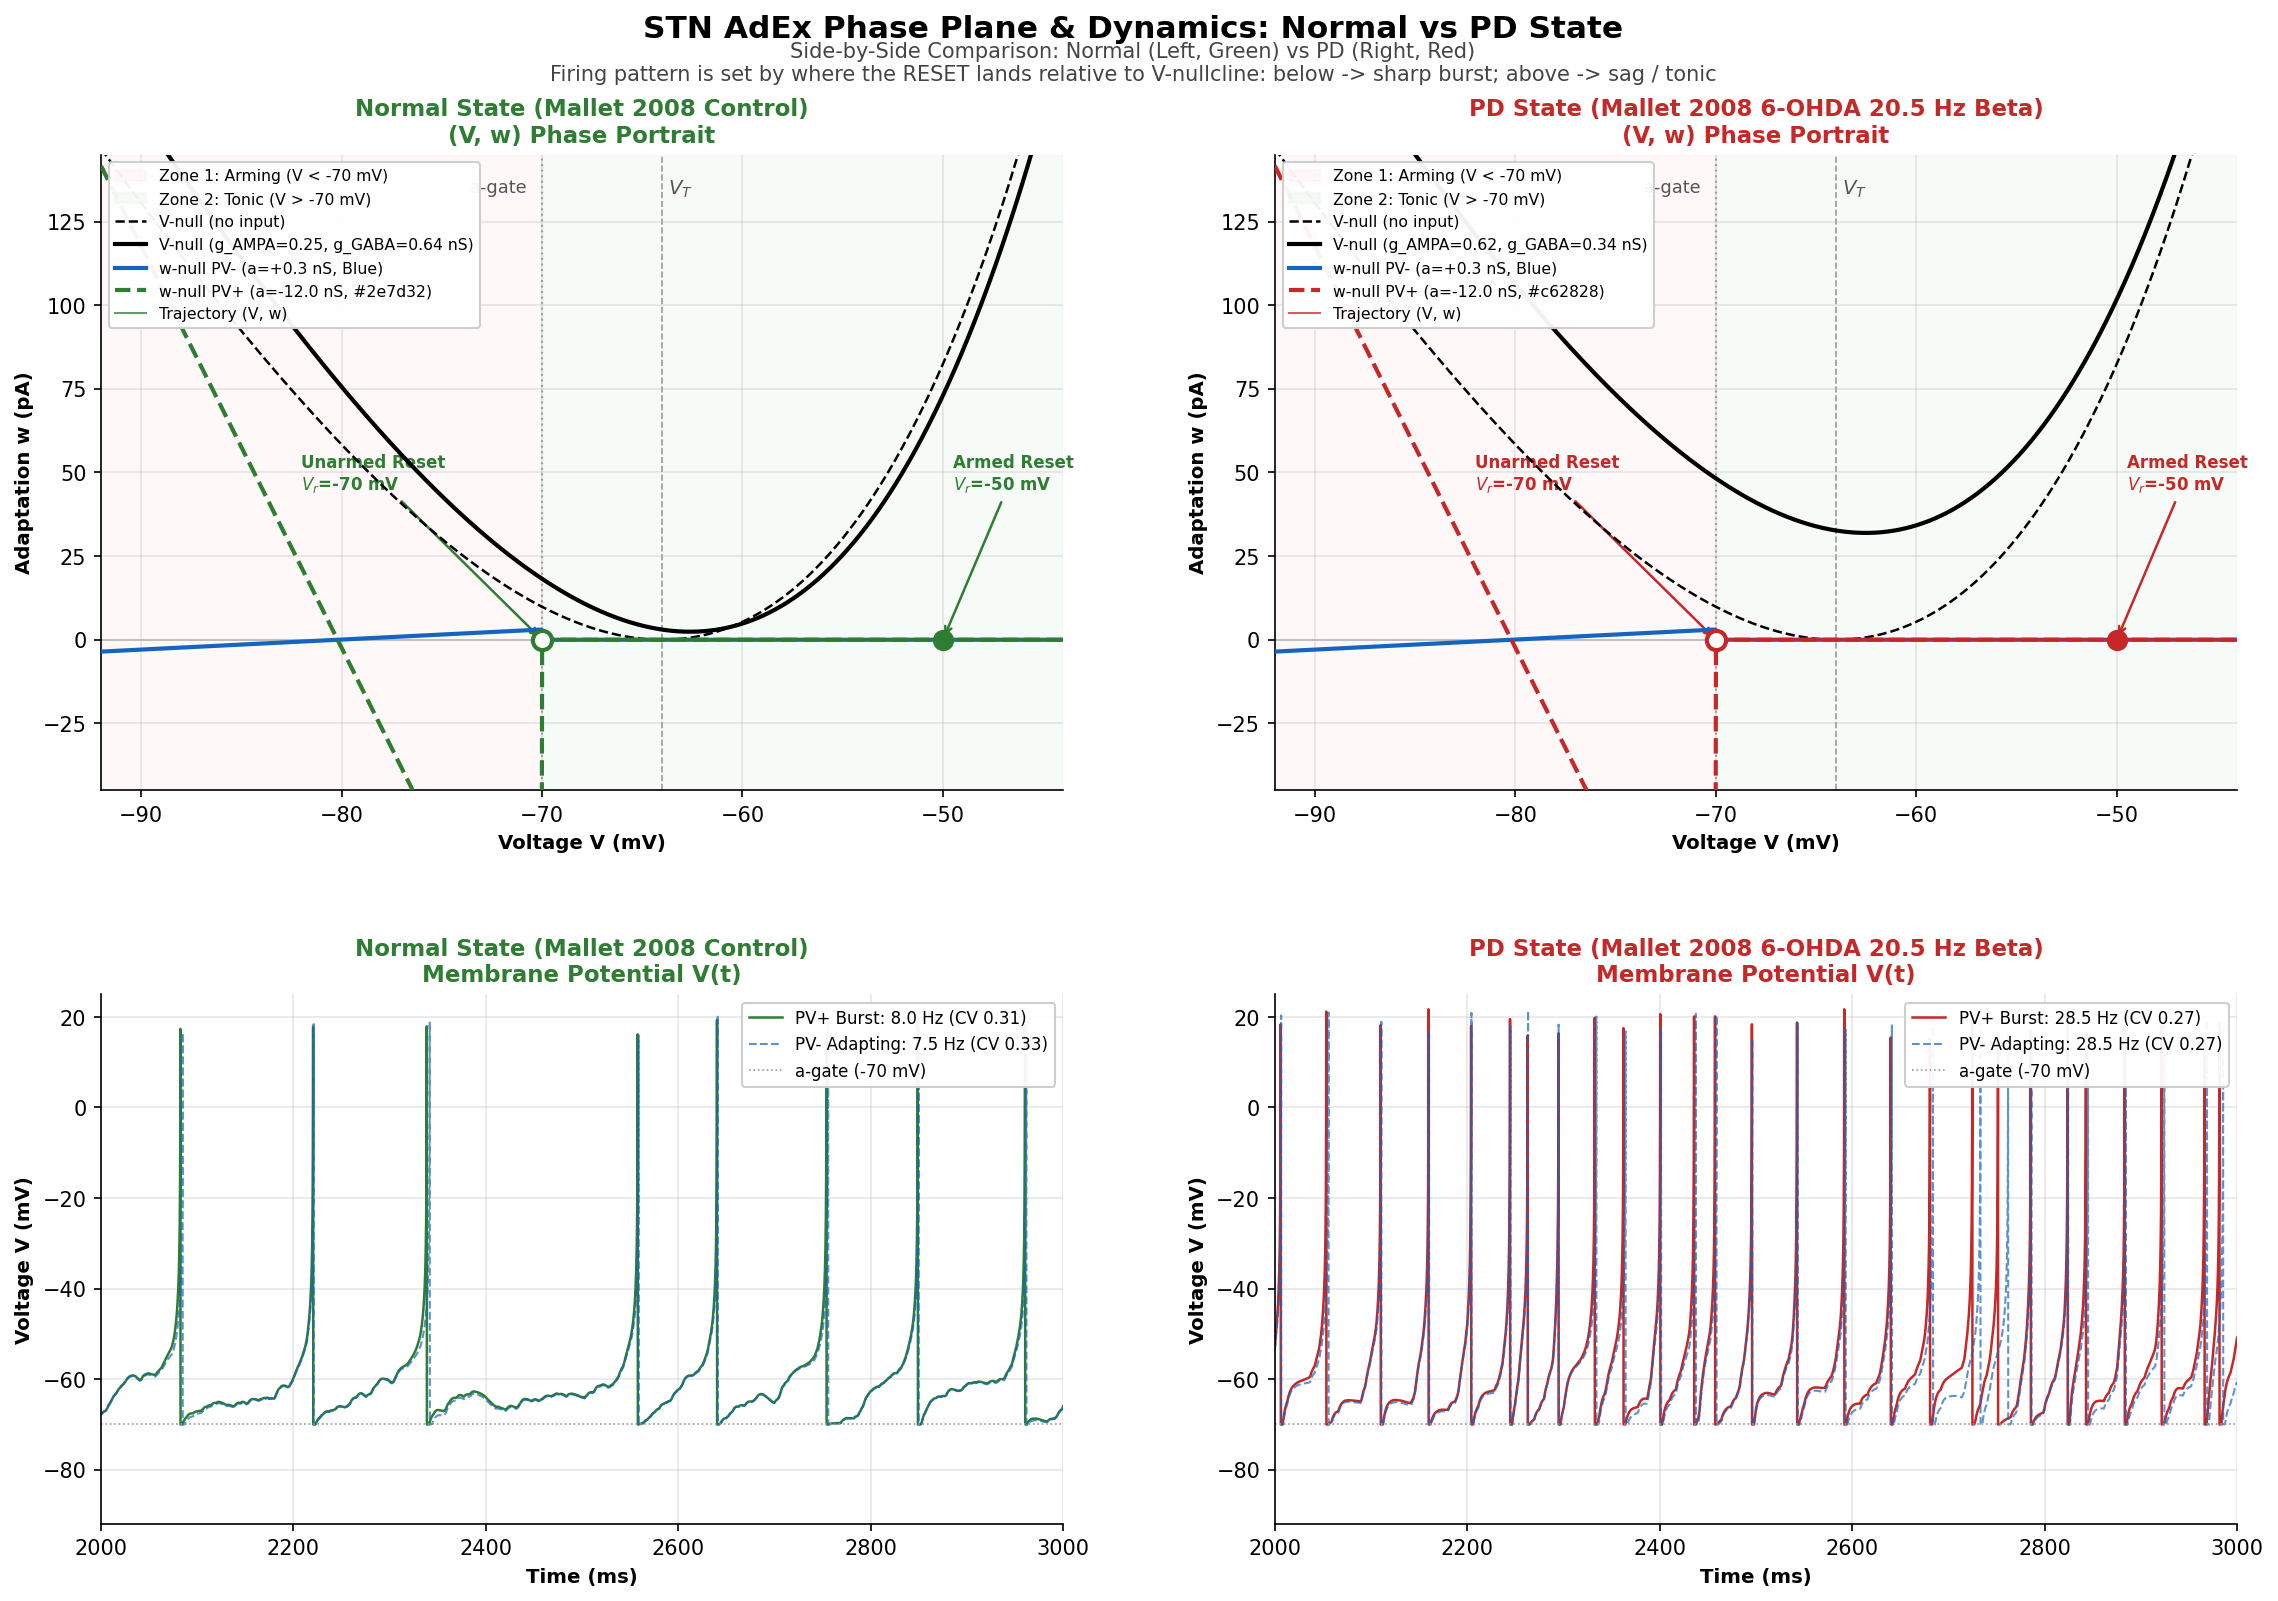
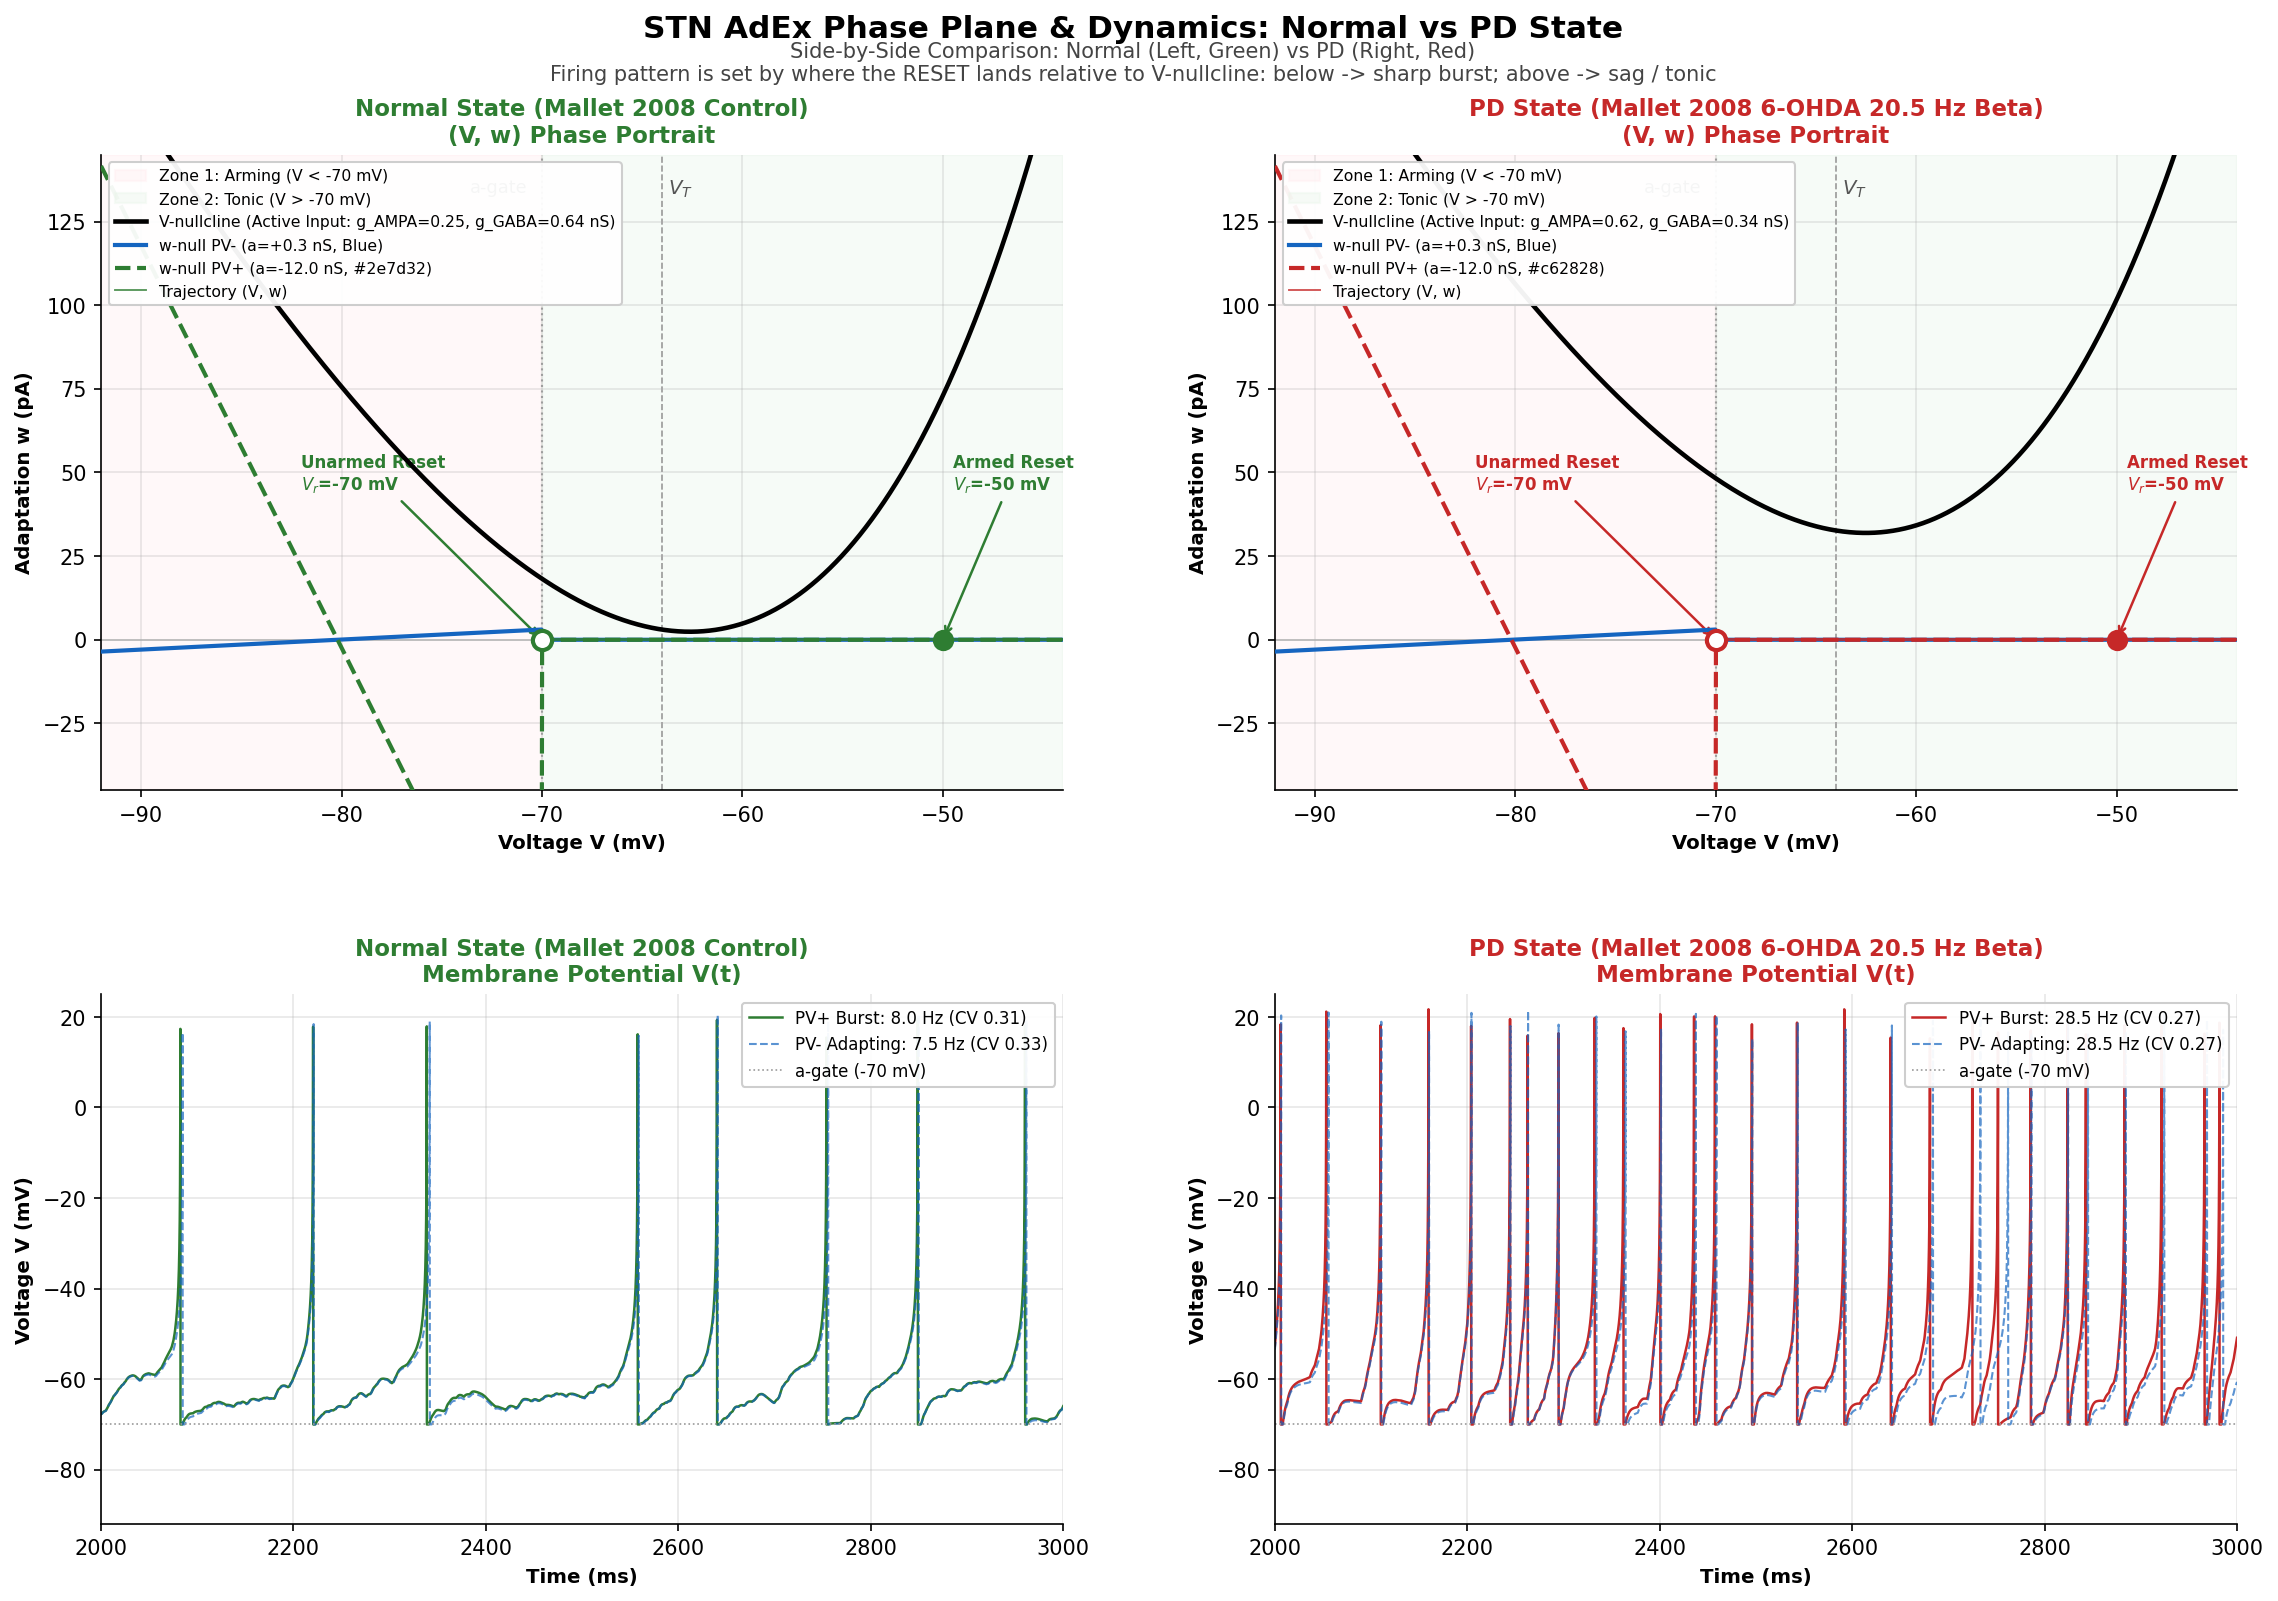
Remove dashed no_input V-nullcline curve to simplify Phase Diagram

Changed region(s): [[0.561, 0.0937, 0.7792, 0.2186], [0.0623, 0.0937, 0.2805, 0.2186]]

diff --git a/Downloads/stn_burst_project/stn_borderline_tonic_burst_transition.py b/Downloads/stn_burst_project/stn_borderline_tonic_burst_transition.py
@@ -429,9 +429,8 @@ def generate_phase_diagram():
         ax.text(VT + 0.3, 138, "$V_T$", fontsize=9.5, color="#555", va="top")
         ax.text(GATE - 3.6, 138, "a-gate", fontsize=8.5, color="#555", va="top")
 
-        ax.plot(V, wv0, color="k", ls="--", lw=1.2, zorder=4, label="V-null (no input)")
-        ax.plot(V, wv, color="k", ls="-", lw=2.0, zorder=4,
-                label=f"V-null (g_AMPA={gA:.2f}, g_GABA={gG:.2f} nS)")
+        ax.plot(V, wv, color="k", ls="-", lw=2.2, zorder=4,
+                label=f"V-nullcline (Active Input: g_AMPA={gA:.2f}, g_GABA={gG:.2f} nS)")
 
         # Clear distinct w-nullclines: PV- (Blue) vs PV+ (Green/Red)
         ww_pv_minus = w_null(CELL_TYPES["PV-"]["a_nS"])
